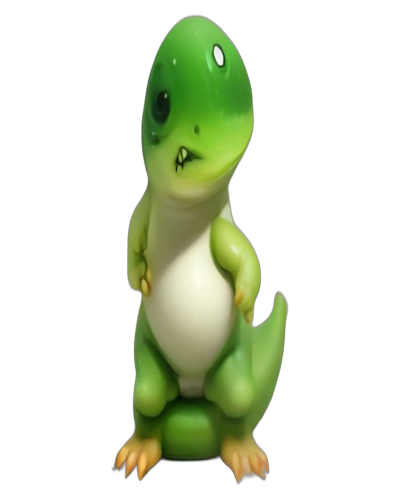
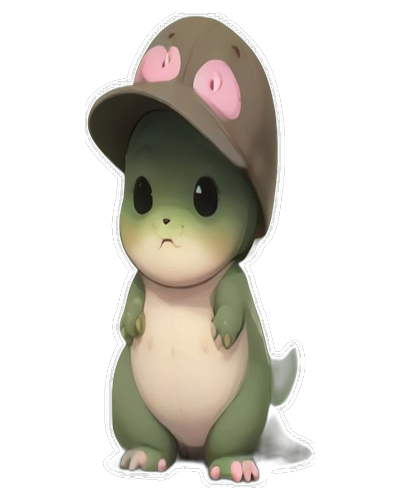
Update Rexy stickers to 2D kawaii comic chibi style with crisp solid white die-cut border and transparent background

diff --git a/generate_reactions.py b/generate_reactions.py
@@ -1,11 +1,16 @@
 """
-generate_reactions.py - Generates pre-made Rexy reaction PNG stickers with transparent backgrounds.
+generate_reactions.py - Generates cute comic chibi Rexy reaction PNG stickers with a clean white die-cut border.
 
-Uses a strictly consistent chibi base character prompt and rembg AI segmentation
-to produce flawless transparent PNGs with matching aesthetic across all reactions.
+Aesthetic Style:
+- 2D/Cel-shaded Kawaii Comic Chibi Mascot
+- Crisp comic ink outlines & vibrant pastel palette
+- Cute blushing cheeks & expressive comic faces
+- Isolated with rembg AI segmentation
+- Clean solid white die-cut sticker border around the silhouette
+- 100% transparent background outside the white border
 
-Run this script ONCE to create or refresh the reaction bank in assets/reactions/.
-These PNGs are reused across all future videos without regeneration.
+Run with --force to regenerate all reactions:
+    python generate_reactions.py --force
 """
 import os
 import sys
@@ -13,6 +18,8 @@ import time
 import random
 from pathlib import Path
 from PIL import Image
+import numpy as np
+from scipy.ndimage import binary_dilation
 
 # Reconfigure stdout/stderr to UTF-8 on Windows
 if sys.platform == "win32":
@@ -25,51 +32,80 @@ if sys.platform == "win32":
 from config import BASE_DIR
 from utils import download_ai_image
 
-# Unified Chibi Base Character Description (Identical across all reactions for 100% visual consistency)
+# Unified Comic Chibi Base Character Description (100% consistent across all reactions)
 CHARACTER_BASE_PROMPT = (
-    "cute chibi baby dinosaur character, adorable baby green T-Rex mascot, "
-    "light lime-green smooth skin with soft pale-yellow belly, "
-    "big glossy round black eyes with cute white reflections, friendly cute face, "
-    "wearing a small brown safari explorer hat with dark band, "
-    "small chubby round body, tiny short arms, small feet, cute tail, "
-    "smooth 3D cartoon vinyl toy render, Pixar 3D animation style, Disney chibi aesthetic, "
-    "studio lighting with soft shadows, solid pure white background, "
-    "full body standing pose, centered, isolated, 8k resolution"
+    "kawaii cute baby green T-Rex dinosaur chibi mascot, super cute 2D comic cartoon sticker style, "
+    "clean crisp dark comic ink outlines, cel-shaded vibrant pastel colors, adorable huge sparkly comic eyes, "
+    "cute pink blush on chubby cheeks, wearing a small brown safari explorer hat with dark band, "
+    "soft pale-yellow belly, tiny round chubby body, tiny short arms, small feet and tail, "
+    "flat solid pure white background, cute comic sticker illustration, Japanese line sticker aesthetic, "
+    "2D vector art style, high quality"
 )
 
-# Reaction-specific pose and facial expression definitions
+# Reaction-specific comic poses and facial expressions
 REACTION_DEFINITIONS = {
-    "shocked": "both hands on cheeks, mouth wide open in a big O shape, huge round wide-open eyes, looking completely shocked and stunned, jaw dropped, hilarious cute reaction, facing camera",
-    "scared": "shivering and trembling with fear, knees knocking together, teeth chattering, sweating drop on head, terrified cute wide-eyed expression, facing camera",
-    "thinking": "one tiny arm tapping chin, looking upward and to the side with curious raised eyebrow, thoughtful inquisitive expression, facing camera",
-    "excited": "jumping joyfully in the air with tiny arms raised high, huge happy open-mouth smile, eyes squinted in joy, sparkles, energetic cute celebration pose, facing camera",
-    "mindblown": "eyes wide open with glowing star reflections, both hands holding head in utter disbelief and amazement, mouth wide open in awe, blown away expression, facing camera",
-    "curious": "holding a vintage magnifying glass up to one eye, peering through the glass, leaning slightly forward, curious detective expression, facing camera",
-    "crying": "crying with dramatic cartoon tears streaming down cheeks, sad pouty mouth, hands wiping eyes, dramatically sad cute expression, facing camera",
-    "waving": "waving friendly with one tiny hand, other hand on hip, bright warm welcoming smile, happy friendly greeting pose, facing camera",
+    "shocked": "both hands on cheeks, mouth wide open in a dramatic comic O shape, huge wide-open starry shocked eyes, sweat drop on forehead, jaw dropped, dramatic funny comic shock reaction, facing camera",
+    "scared": "shivering and trembling with fear, knees knocking together, teeth chattering, sweating cartoon drops, terrified cute wide-eyed expression with spiral eyes, funny scared comic pose, facing camera",
+    "thinking": "one tiny arm tapping chin thoughtfully, other hand on hip, looking upward with a cute question mark above head, curious raised comic eyebrow, contemplative adorable expression, facing camera",
+    "excited": "jumping joyfully in the air with tiny arms raised high, huge happy open-mouth smile, eyes squinted in cute happy arcs, sparkles and stars around, energetic kawaii celebration pose, facing camera",
+    "mindblown": "eyes wide open with glowing starburst reflections, hands on head in utter comic disbelief, mouth wide open in awe, comic explosion lines around head, mind blown expression, facing camera",
+    "curious": "holding a vintage magnifying glass up to one eye with an oversized curious eye, leaning slightly forward, cute detective magnifying glass pose, inquisitive expression, facing camera",
+    "crying": "crying with dramatic comic waterfall tears streaming down cheeks, sad cute pouty mouth, tiny hands wiping eyes, dramatically sad adorable comic expression, facing camera",
+    "waving": "waving friendly with one tiny hand, other hand on round tummy, bright warm welcoming smile, happy kawaii greeting pose, facing camera",
 }
 
 REACTIONS_DIR = BASE_DIR / "assets" / "reactions"
 TARGET_SIZE = (400, 500)
+BORDER_THICKNESS = 12  # White sticker die-cut border radius in pixels
+
+
+def add_white_sticker_border(img_rgba, border_radius=BORDER_THICKNESS):
+    """Adds a smooth, crisp, uniform solid white die-cut sticker outline around the character.
+    
+    Args:
+        img_rgba (PIL.Image.Image): RGBA image with transparent background.
+        border_radius (int): Pixel radius of the white outline border.
+        
+    Returns:
+        PIL.Image.Image: RGBA image with the white sticker border and transparent background.
+    """
+    alpha = np.array(img_rgba.split()[-1])
+    mask = alpha > 20
+    
+    # Generate circular structuring element for smooth rounded border
+    radius = border_radius
+    y, x = np.ogrid[-radius:radius+1, -radius:radius+1]
+    struct = x*x + y*y <= radius*radius
+    
+    # Dilate mask outwards
+    dilated_mask = binary_dilation(mask, structure=struct)
+    
+    # Create RGBA output canvas
+    out_arr = np.zeros((*alpha.shape, 4), dtype=np.uint8)
+    
+    # Fill dilated outline with solid white
+    out_arr[dilated_mask] = [255, 255, 255, 255]
+    
+    # Paste original character on top
+    orig_arr = np.array(img_rgba)
+    fg_mask = alpha > 0
+    out_arr[fg_mask] = orig_arr[fg_mask]
+    
+    return Image.fromarray(out_arr)
 
 
 def remove_background_ai(img):
-    """Remove background using rembg deep learning model (U2-Net).
-    
-    Produces clean alpha matting with smooth anti-aliased edges regardless of background color.
-    """
+    """Remove background using rembg deep learning model (U2-Net)."""
     try:
         import rembg
         return rembg.remove(img)
     except Exception as e:
-        print(f"  [rembg fallback] Could not use rembg ({e}), using color flood fill...")
-        # Fallback to white/light background removal
+        print(f"  [rembg fallback] Could not use rembg ({e}), using color threshold...")
         img = img.convert("RGBA")
         datas = img.getdata()
         new_data = []
         for item in datas:
-            # If near white (R>240, G>240, B>240) make transparent
-            if item[0] > 235 and item[1] > 235 and item[2] > 235:
+            if item[0] > 240 and item[1] > 240 and item[2] > 240:
                 new_data.append((255, 255, 255, 0))
             else:
                 new_data.append(item)
@@ -78,7 +114,7 @@ def remove_background_ai(img):
 
 
 def generate_single_reaction(reaction_key, reaction_desc, output_path, retries=3):
-    """Generate a single reaction PNG with transparent background using the unified chibi prompt."""
+    """Generate a single reaction comic sticker with a clean white die-cut border."""
     prompt = f"{CHARACTER_BASE_PROMPT}, {reaction_desc}"
     
     temp_path = output_path.parent / f"_temp_{reaction_key}.jpg"
@@ -94,23 +130,26 @@ def generate_single_reaction(reaction_key, reaction_desc, output_path, retries=3
             # Load raw AI image
             raw_img = Image.open(temp_path).convert("RGB")
             
-            # Apply AI background removal
+            # 1. Apply AI background removal
             transparent_img = remove_background_ai(raw_img)
             
-            # Crop to content (remove empty transparent borders)
+            # 2. Crop to content
             bbox = transparent_img.getbbox()
             if bbox:
-                # Add slight padding inside bbox if possible
                 transparent_img = transparent_img.crop(bbox)
+                
+            # 3. Add clean white die-cut sticker border
+            bordered_img = add_white_sticker_border(transparent_img, border_radius=BORDER_THICKNESS)
             
-            # Resize to fit within target sticker size (maintaining aspect ratio)
-            transparent_img.thumbnail((TARGET_SIZE[0] - 20, TARGET_SIZE[1] - 20), Image.Resampling.LANCZOS)
+            # 4. Resize to fit inside target sticker canvas (leaving a small margin)
+            max_w, max_h = TARGET_SIZE[0] - 24, TARGET_SIZE[1] - 24
+            bordered_img.thumbnail((max_w, max_h), Image.Resampling.LANCZOS)
             
-            # Center on target-sized canvas
+            # 5. Center on target canvas (400x500 RGBA)
             canvas = Image.new("RGBA", TARGET_SIZE, (0, 0, 0, 0))
-            paste_x = (TARGET_SIZE[0] - transparent_img.width) // 2
-            paste_y = (TARGET_SIZE[1] - transparent_img.height) // 2
-            canvas.paste(transparent_img, (paste_x, paste_y), transparent_img)
+            paste_x = (TARGET_SIZE[0] - bordered_img.width) // 2
+            paste_y = (TARGET_SIZE[1] - bordered_img.height) // 2
+            canvas.paste(bordered_img, (paste_x, paste_y), bordered_img)
             
             # Save as PNG with full alpha channel
             canvas.save(output_path, "PNG", optimize=True)
@@ -119,7 +158,7 @@ def generate_single_reaction(reaction_key, reaction_desc, output_path, retries=3
             if temp_path.exists():
                 temp_path.unlink()
             
-            print(f"  [OK] {reaction_key}: saved to {output_path.name} ({canvas.size}, RGBA)")
+            print(f"  [OK] {reaction_key}: saved to {output_path.name} ({canvas.size}, comic chibi with white border)")
             return True
             
         except Exception as e:
@@ -145,7 +184,8 @@ def generate_all_reactions(force=False):
     REACTIONS_DIR.mkdir(parents=True, exist_ok=True)
     
     print("=" * 60)
-    print("  REXY CHIBI REACTION BANK GENERATOR (rembg AI Pipeline)")
+    print("  REXY KAWAII COMIC CHIBI STICKER GENERATOR")
+    print("  Style: 2D Comic Chibi + White Die-Cut Border")
     print("=" * 60)
     
     generated = 0
@@ -165,7 +205,7 @@ def generate_all_reactions(force=False):
             except:
                 pass
         
-        print(f"\nGenerating reaction: '{key}'...")
+        print(f"\nGenerating comic chibi sticker: '{key}'...")
         success = generate_single_reaction(key, desc, output_path)
         
         if success:
